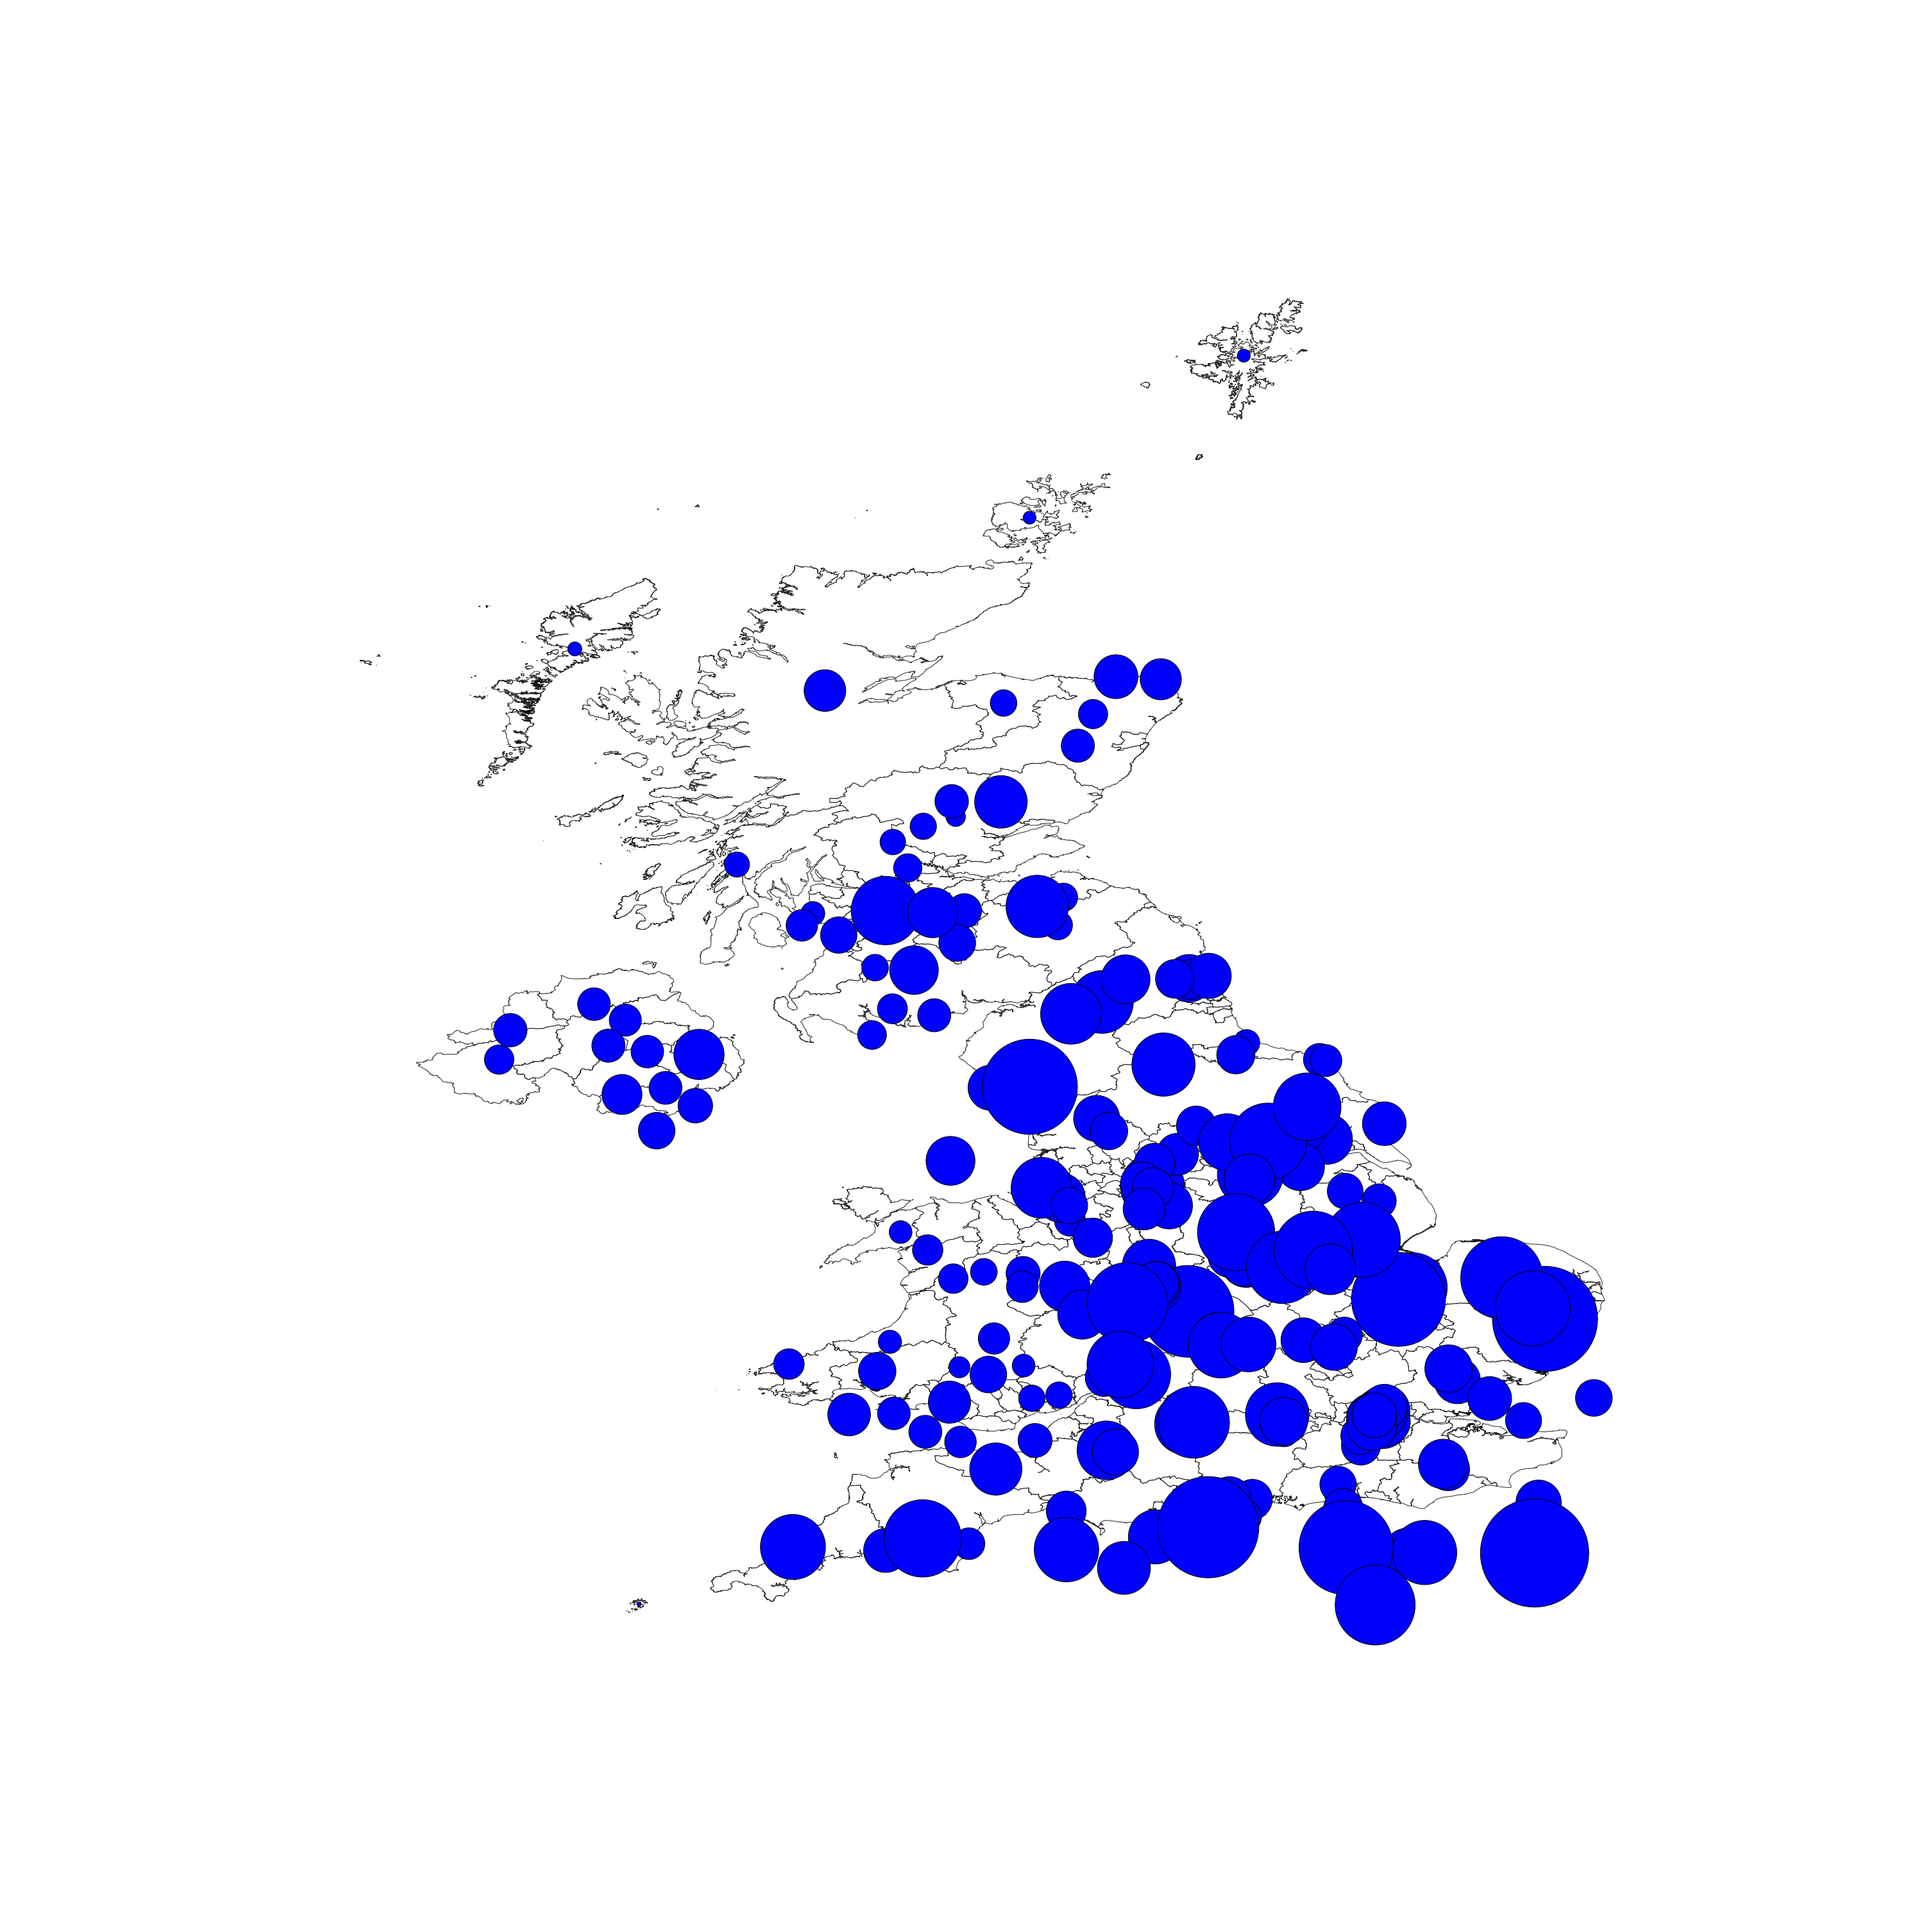
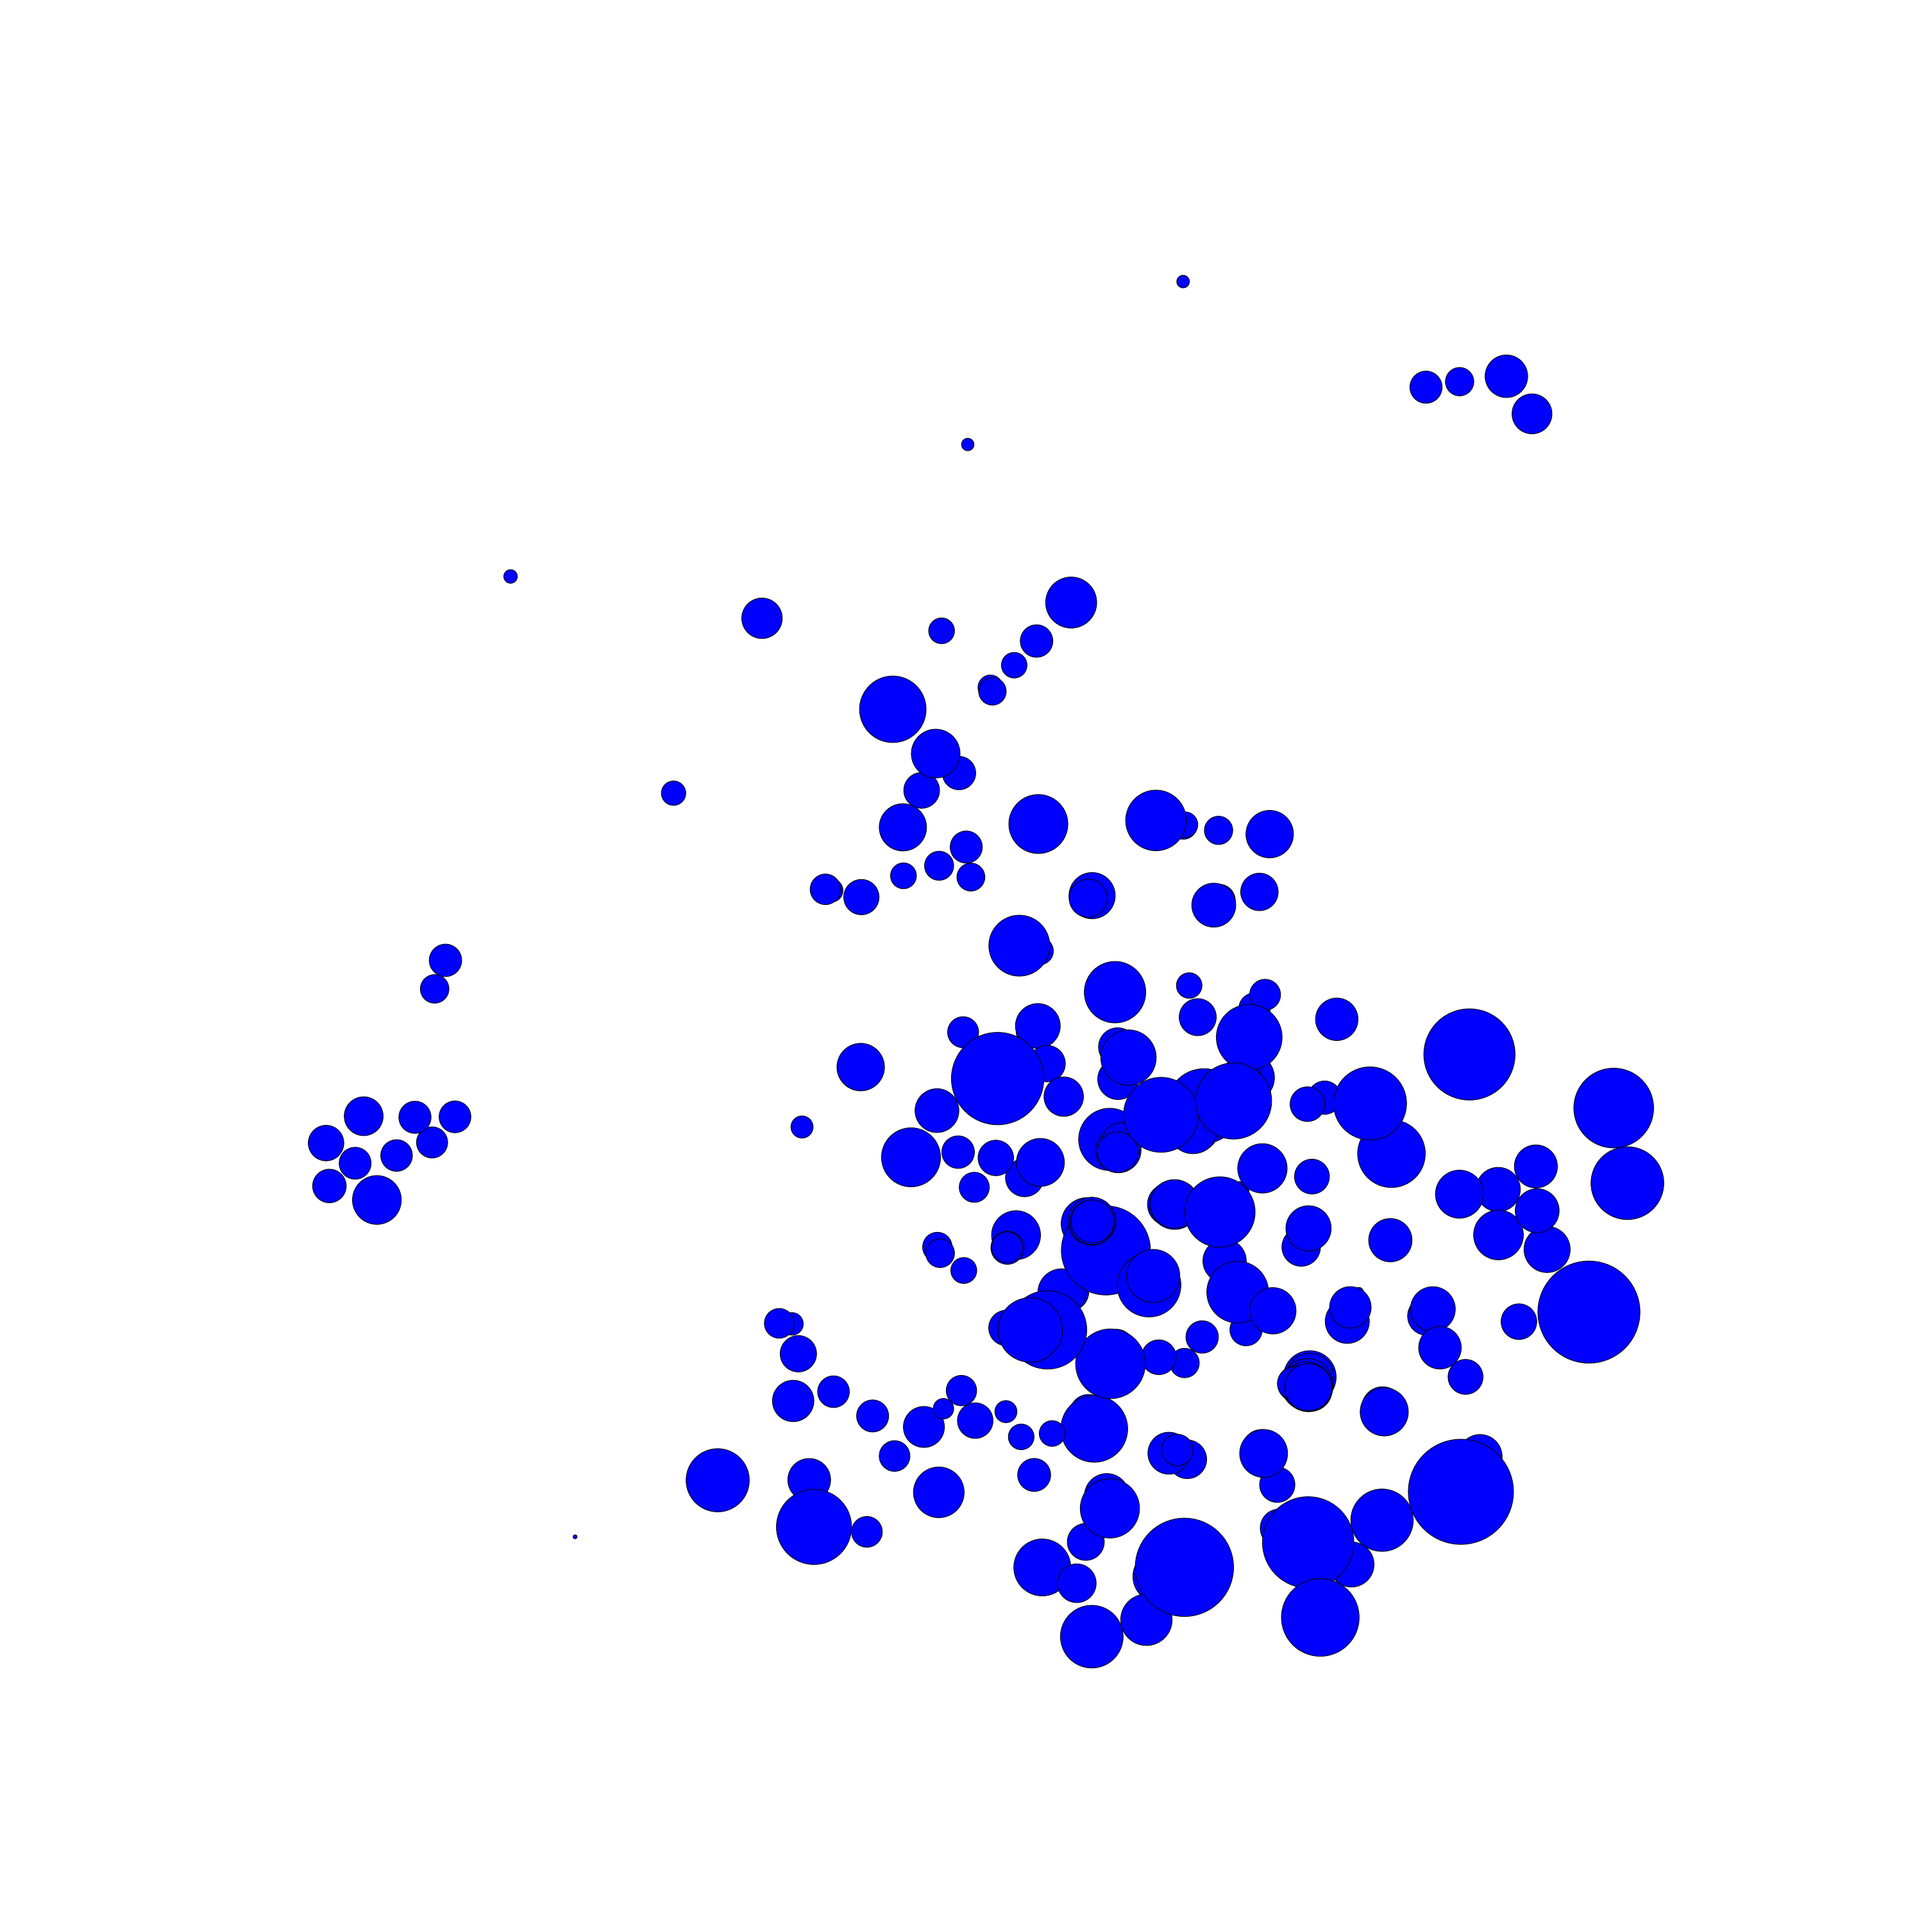
added centroid/neighbour visualization
Added a centroid and neighbour visualization, to aid in debugging of the Dorling algorithm

diff --git a/main.py b/main.py
@@ -2,7 +2,6 @@ import geojson
 import shapely.ops
 
 import cartogram
-import borders
 
 # import os
 # os.environ['USE_PYGEOS'] = '0'
@@ -129,7 +128,7 @@ if __name__ == '__main__':
 
     # 'countries' | 'regions' | 'cua' | 'lad'
     try:
-        places_df, features, code_type = init_geojson("cua")
+        places_df, features, code_type = init_geojson("lad")
     except NameError as e:
         print(e)
         exit(-1)
@@ -156,9 +155,23 @@ if __name__ == '__main__':
 
     # londonless_geo_pop = geo_pop[geo_pop["Name"] != "LONDON"].reset_index(drop=True)
 
-    # cart = cartogram.Cartogram(geo_pop, "Population", id_field="Name")
+    cart = cartogram.Cartogram(geo_pop, "Population", id_field="Name")
+    regions, borders, adjlist = cart.dorling()
+
+    centroids = regions["geometry"].to_numpy()
+    centroids = np.vstack(centroids)
+
+    plt.plot(centroids[:,0], centroids[:,1], '.', color='r', markersize=0.2)
+
+    for k, neighs in borders.neighbors.items():
+        # print(k, neighs)
+        origin = centroids[k]
+        for neigh in neighs:
+            segment = centroids[[k, neigh]]
+            plt.plot(segment[:, 0], segment[:, 1], '-', linewidth=0.2)
+
     # non_con = cart.non_contiguous(position='centroid', size_value=1.0)
-    # dorling = cart.dorling(iterations=99)
+    # dorling = cart.old_dorling(iterations=1000)
 
     # borders = cartogram.shared_borders(geo_pop)
     # knn_borders = cartogram.knn_borders(geo_pop)
@@ -171,7 +184,7 @@ if __name__ == '__main__':
     #         print(f"Neighbour {neighbour} and Weight {weight} are mismatched")
 
     # WQ, WK = borders.get_borders(geo_pop)
-    W = borders.get_borders(geo_pop)
+    # W = borders.get_borders(geo_pop)
 
     # test_geo_pop = geo_pop.copy()
     #
@@ -190,7 +203,8 @@ if __name__ == '__main__':
     #     indicator=True
     # )
 
-    # geo_pop.plot(color='w', ax=ax, alpha=0.8, zorder=0,  edgecolor='0', linewidth=0.1, legend=False)
+    geo_pop.plot(color='w', ax=ax, alpha=0.8, zorder=0,  edgecolor='0', linewidth=0.1, legend=False)
+    # regions.plot(color='r', ax=ax, markersize=0.1, legend=False)
     # non_con.plot(color='r', ax=ax, edgecolor='0', linewidth=0.1, legend=False)
     # dorling.plot(color='blue', ax=ax, edgecolor='0', linewidth=0.1, legend=False)
 
@@ -198,6 +212,6 @@ if __name__ == '__main__':
 
     # geo_pop.plot(column='Population', cmap=new_cmap, ax=ax, edgecolor='0', linewidth=0.1, legend=True)
     # ax.set_title('Population of LADs', fontdict={'fontsize': '15', 'fontweight': '3'})
-    # plt.savefig("no_islands.png", dpi=750)
+    plt.savefig("centroids.png", dpi=1200)
 
 

diff --git a/border_util.py b/border_util.py
@@ -3,10 +3,9 @@ import numpy as np
 import pandas as pd
 
 from libpysal.weights import Queen, W, Kernel
-from libpysal.weights.adjtools import _get_W_and_alist
 
 
-def get_borders(gdf, geo_field="geometry"):
+def bad_borders(gdf, geo_field="geometry"):
     wq = Queen.from_dataframe(gdf)
 
     if len(wq.islands) > 0:
@@ -22,8 +21,6 @@ def get_borders(gdf, geo_field="geometry"):
 
         combined_W = W.from_adjlist(COMBINED)
 
-        checked_W, checked_alist = _get_W_and_alist(combined_W, COMBINED)
-
         weights = {
             idx: [
                 gdf.loc[idx, geo_field].intersection(gdf.loc[nid, geo_field]).length
@@ -32,11 +29,12 @@ def get_borders(gdf, geo_field="geometry"):
             for idx, neighbors in combined_W.neighbors.items()
         }
 
-        # for idx, neighbors in combined_W.neighbors.items():
-        #     idx_weights = []
-        #     for nid in neighbors:
-        #         if gdf.loc[idx, geo_field].intersection(gdf.loc[nid, geo_field]).length == 0:
-        #             print(f"{idx}: {nid}")
+        for idx, neighbors in combined_W.neighbors.items():
+            idx_weights = []
+            for nid in neighbors:
+                # if gdf.loc[idx, geo_field].intersection(gdf.loc[nid, geo_field]).length == 0:
+                #     print(f"{idx}: {nid}")
+                print(gdf.loc[idx, geo_field].intersection(gdf.loc[nid, geo_field]))
 
         # print(len(combined_W.neighbors.items()))
 
@@ -62,3 +60,35 @@ def get_borders(gdf, geo_field="geometry"):
     # }
     #
     # return W(queen.neighbors, weights).to_adjlist()
+
+
+def get_borders(gdf, geo_field="geometry"):
+    islands = None
+    wq = Queen.from_dataframe(gdf)
+
+    # if len(wq.islands) > 0:
+    #     islands = wq.islands
+    #
+    #     temp_gdf = gdf.drop(islands, axis=0)
+    #
+    #     WQ = wq.to_adjlist(drop_islands=True)
+    #     WQ.reset_index(inplace=True, drop=True)
+    #     wq = W.from_adjlist(WQ)
+    #
+    #     weights = {
+    #         idx: [
+    #             temp_gdf.loc[idx, geo_field].intersection(temp_gdf.loc[nid, geo_field]).length
+    #             for nid in neighbors
+    #         ]
+    #         for idx, neighbors in wq.neighbors.items()
+    #     }
+    # else:
+    weights = {
+        idx: [
+            gdf.loc[idx, geo_field].intersection(gdf.loc[nid, geo_field]).length
+            for nid in neighbors
+        ]
+        for idx, neighbors in wq.neighbors.items()
+    }
+
+    return W(wq.neighbors, weights).to_adjlist(), islands

diff --git a/cartogram.py b/cartogram.py
@@ -1,5 +1,7 @@
 from functools import partial
 
+import border_util
+
 import pyfftw
 import geopandas as gpd
 import numpy as np
@@ -148,7 +150,7 @@ class Cartogram:
 
             return xattract, yattract
 
-        borders = knn_borders(self.gdf)
+        borders = border_util.get_borders(self.gdf)
         perimeter = self.gdf.length
 
         df = gpd.GeoDataFrame(
@@ -265,7 +267,16 @@ class Cartogram:
 
 
     def dorling(self, ratio=0.4, friction=0.25, iterations=100):
-        pass
+        borders, islands = border_util.get_borders(self.gdf)
+        perimeter = self.gdf.length
+
+        regions = gpd.GeoDataFrame(
+            self.gdf.drop(columns=self.geo_field), geometry=self.gdf.centroid
+        )
+        if islands is not None:
+            regions = regions.drop(islands, axis=0, inplace=False)
+
+        return regions, W.from_adjlist(borders), borders
 
 
     def diffusion(self):
